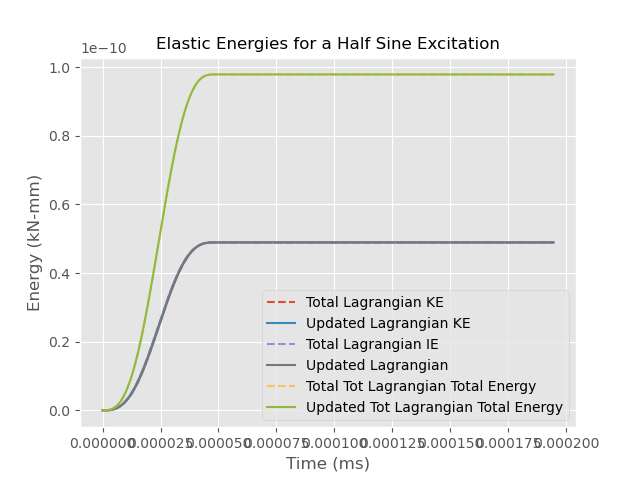
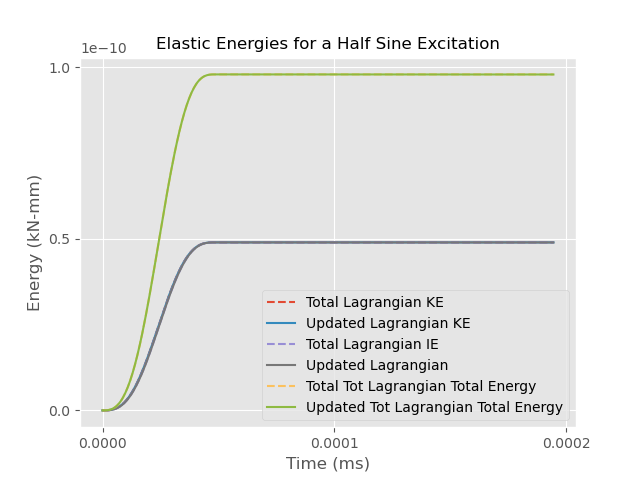
Cleaning Plotting Functions

diff --git a/SimpleIntegrator.py b/SimpleIntegrator.py
@@ -111,7 +111,7 @@ class SimpleIntegrator:
 
     def single_tstep_integrate(self):
         self.a = -self.f_int / self.mass
-        self.assemble_abcs() # check - we can just uncomment this and use simpleintegrator normally
+        self.assemble_abcs() 
         if self.n == 0:
             self.v += 0.5 * self.a * self.dt
         else:
@@ -138,7 +138,7 @@ class SimpleIntegrator:
         self.tot_energy.append(ke+ie)
         
 
-class Plotting:
+class Visualise_SimpleIntegrator:
 
     def __init__(self, totalLagrangian: SimpleIntegrator, updatedLagrangian: SimpleIntegrator):
 
@@ -184,9 +184,32 @@ class Plotting:
         plt.savefig(f'FEM1D_stress{self.total.n}{self.updated.n}.png')
         plt.close()
 
+    def plot_energy(self):
+        plt.style.use('ggplot')
+        plt.locator_params(axis='both', nbins=4)
+        plt.plot(self.total.timestamps, self.total.kinetic_energy, "--")
+        plt.plot(self.updated.timestamps, self.updated.kinetic_energy)
+        plt.plot(self.total.timestamps, self.total.internal_energy, "--")
+        plt.plot(self.updated.timestamps, self.updated.internal_energy)
+        plt.plot(self.total.timestamps, self.total.tot_energy, "--")
+        plt.plot(self.updated.timestamps, self.updated.tot_energy)
+        plt.title(f"Elastic Energies for a Half Sine Excitation",fontsize=12)
+        plt.xlabel("Time (ms)")
+        plt.ylabel("Energy (kN-mm)")
+        plt.legend([f"Total Lagrangian KE", "Updated Lagrangian KE","Total Lagrangian IE", "Updated Lagrangian","Total Tot Lagrangian Total Energy", "Updated Tot Lagrangian Total Energy"])
+        plt.savefig(f'FEM1D_enbal.png')
+        plt.close()
+
+    def create_gif(self, gif_name, filenames):
+        with imageio.get_writer(gif_name, mode='I') as writer:
+            for filename in filenames:
+                image = imageio.imread(filename)
+                writer.append_data(image)
+        for filename in set(filenames):
+            os.remove(filename)
 
 """
-Example from Bombace Thesis
+Example from N.Bombace Thesis 2018
 
 Model now matches DARCoMS 1D Model 
 
@@ -215,7 +238,7 @@ if __name__ == "__main__":
     upd_formulation = "updated"
     upd_bar = SimpleIntegrator(upd_formulation, E, rho, L, 1, n_elem, 2*propTime, velboundaryConditions, None, Co=1.0)
     tot_bar = SimpleIntegrator(tot_formulation, E, rho, L, 1, n_elem, 2*propTime, velboundaryConditions, None, Co=1.0)
-    bar = Plotting(tot_bar, upd_bar)
+    bar = Visualise_SimpleIntegrator(tot_bar, upd_bar)
     while upd_bar.t <= upd_bar.tfinal:
         upd_bar.assemble_internal()
         upd_bar.single_tstep_integrate()
@@ -224,39 +247,11 @@ if __name__ == "__main__":
         bar.plot_vel()
         bar.plot_disp()
         bar.plot_stress()
+    bar.plot_energy()
 
-    with imageio.get_writer('Updated_and_Total_1DFEM_vel.gif', mode='I') as writer:
-        for filename in bar.filenames_vel:
-            image = imageio.imread(filename)
-            writer.append_data(image)
-    for filename in set(bar.filenames_vel):
-        os.remove(filename)
-
-    with imageio.get_writer('Updated_and_Total_1DFEM_disp.gif', mode='I') as writer:
-        for filename in bar.filenames_disp:
-            image = imageio.imread(filename)
-            writer.append_data(image)
-    for filename in set(bar.filenames_disp):
-        os.remove(filename)
-
-    with imageio.get_writer('Updated_and_Total_1DFEM_stress.gif', mode='I') as writer:
-        for filename in bar.filenames_stress:
-            image = imageio.imread(filename)
-            writer.append_data(image)
-    for filename in set(bar.filenames_stress):
-        os.remove(filename)
-
-    # Energy Plot
-    plt.style.use('ggplot')
-    plt.plot(tot_bar.timestamps, tot_bar.kinetic_energy, "--")
-    plt.plot(upd_bar.timestamps, upd_bar.kinetic_energy)
-    plt.plot(tot_bar.timestamps, tot_bar.internal_energy, "--")
-    plt.plot(upd_bar.timestamps, upd_bar.internal_energy)
-    plt.plot(tot_bar.timestamps, tot_bar.tot_energy, "--")
-    plt.plot(upd_bar.timestamps, upd_bar.tot_energy)
-    plt.title(f"Elastic Energies for a Half Sine Excitation",fontsize=12)
-    plt.xlabel("Time (ms)")
-    plt.ylabel("Energy (kN-mm)")
-    plt.legend([f"Total Lagrangian KE", "Updated Lagrangian KE","Total Lagrangian IE", "Updated Lagrangian","Total Tot Lagrangian Total Energy", "Updated Tot Lagrangian Total Energy"])
-    plt.savefig(f'FEM1D_enbal.png')
-    plt.close()
+    '''
+    The evolution of Velocity, Displacement and Stress is plotted in the following gifs
+    '''
+    bar.create_gif('Updated_and_Total_1DFEM_vel.gif', bar.filenames_vel)
+    bar.create_gif('Updated_and_Total_1DFEM_disp.gif', bar.filenames_disp)
+    bar.create_gif('Updated_and_Total_1DFEM_stress.gif', bar.filenames_stress)
